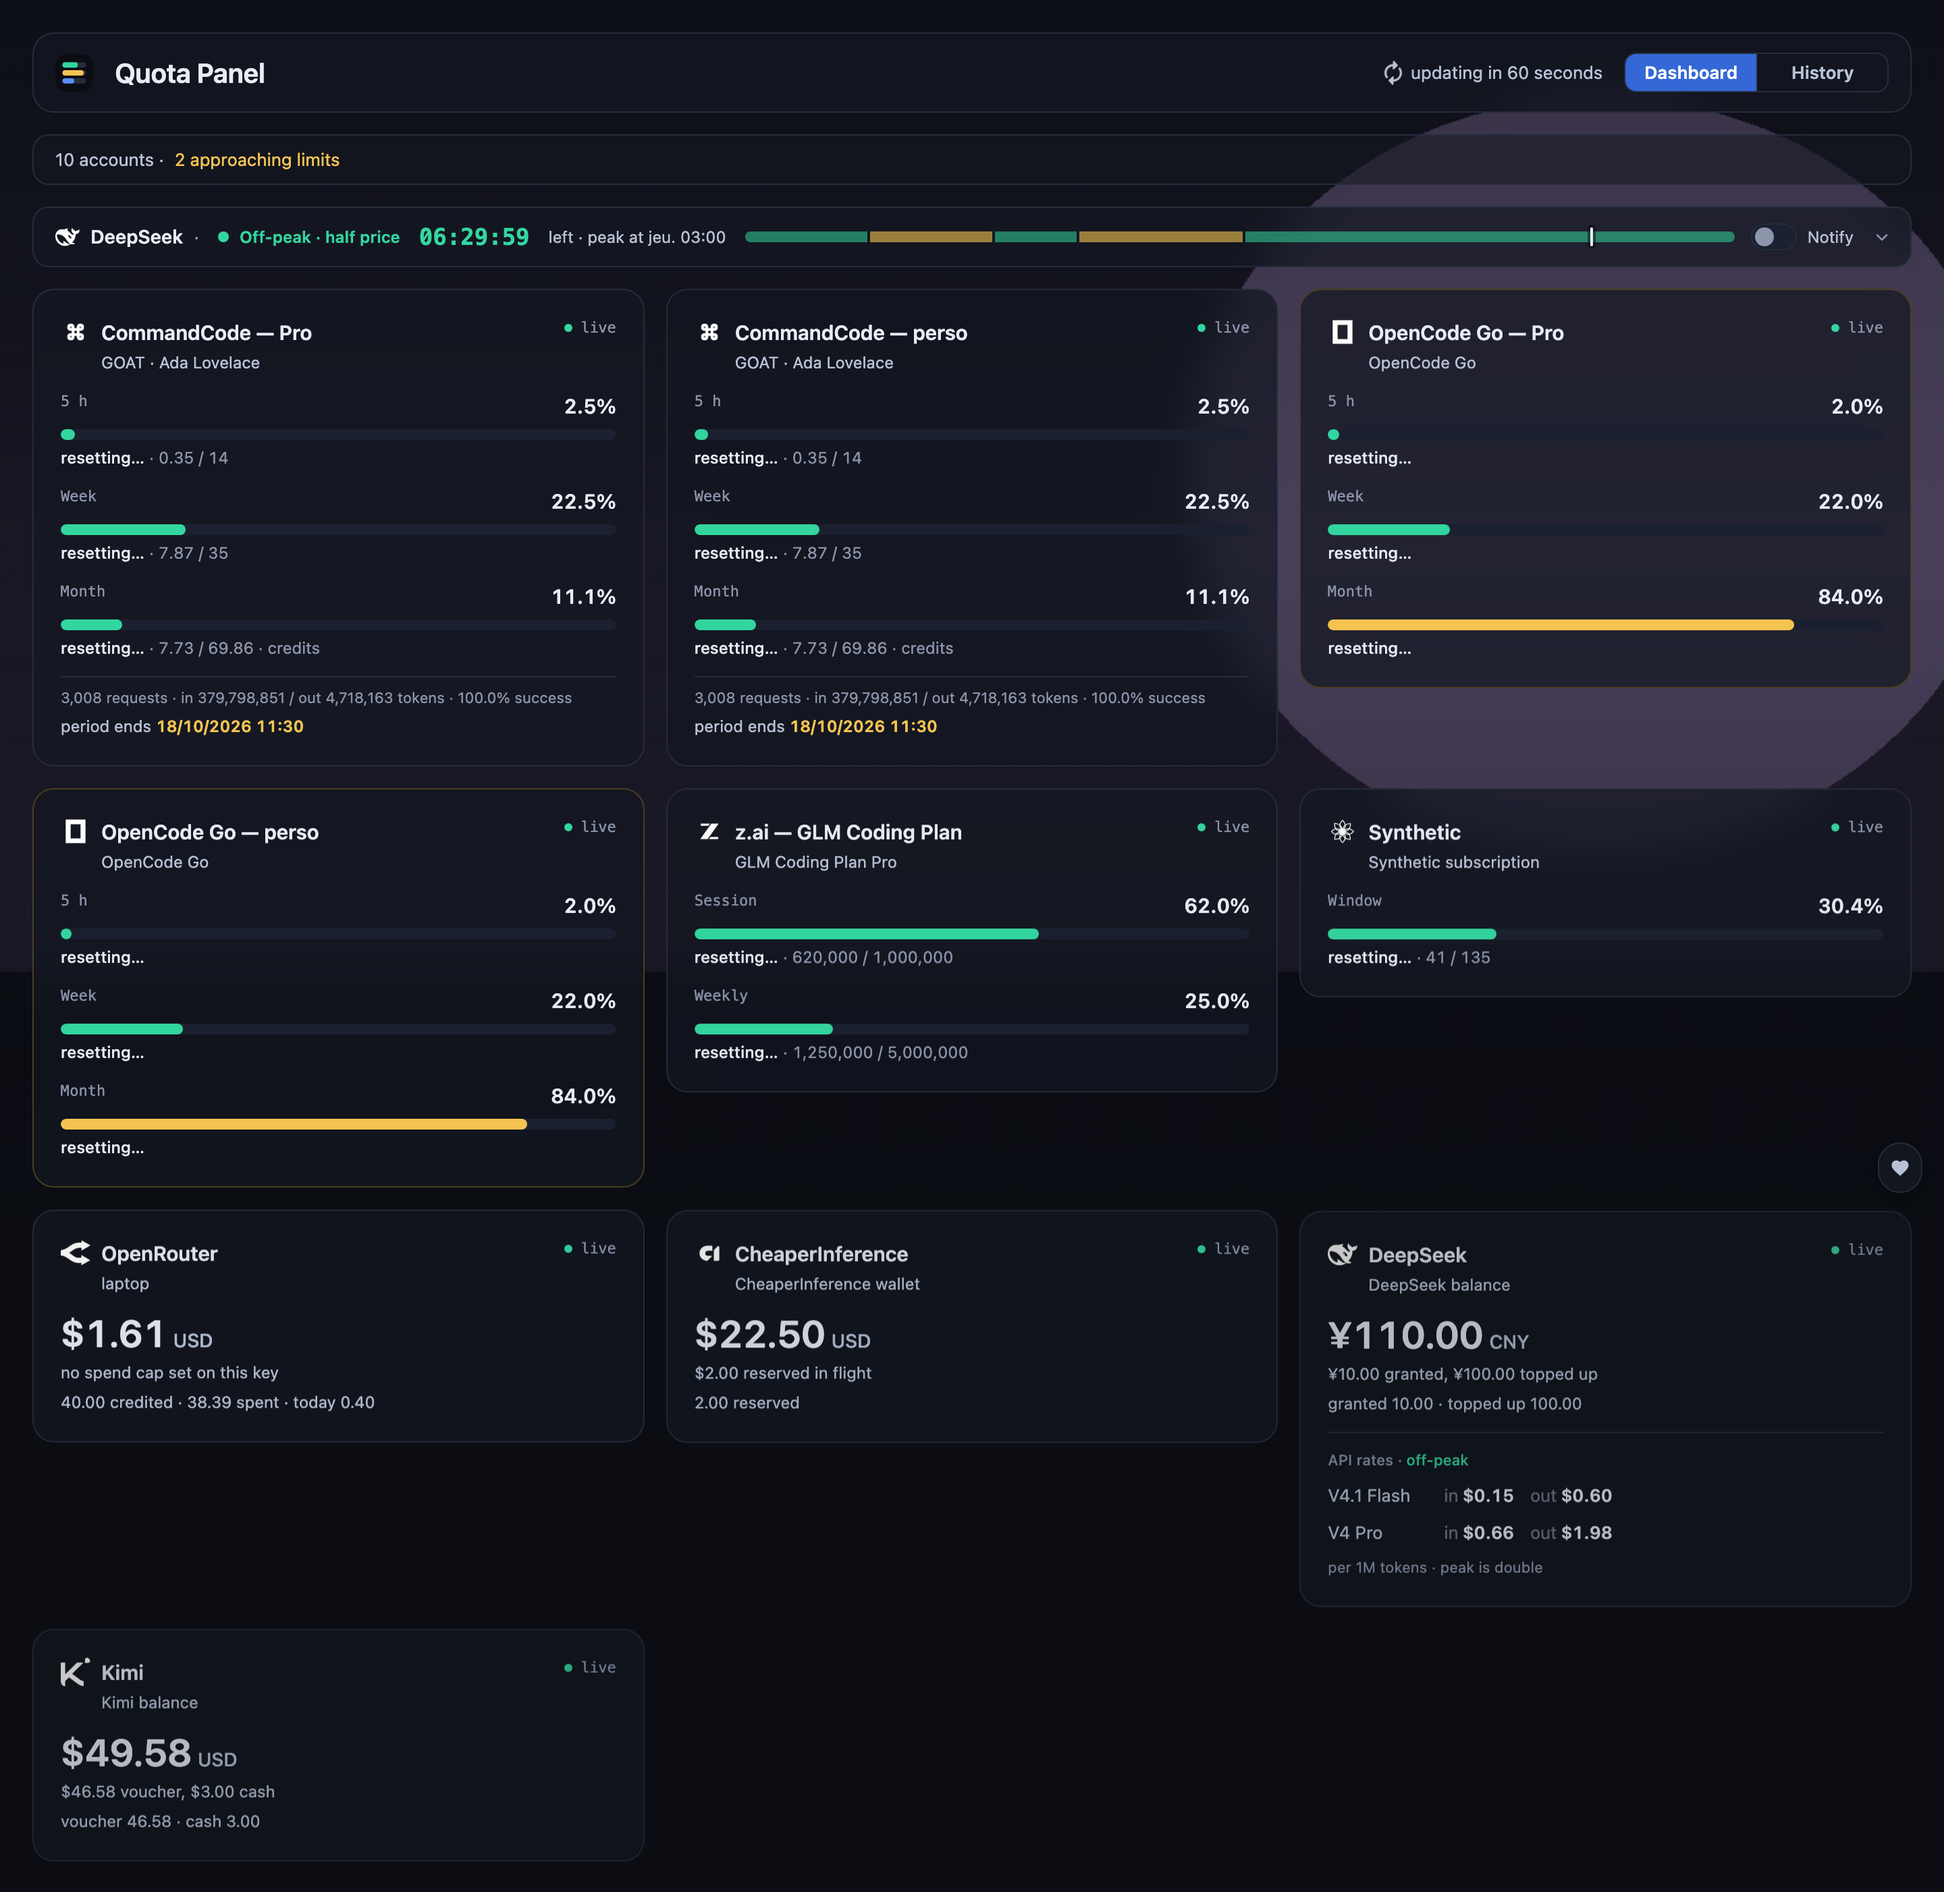
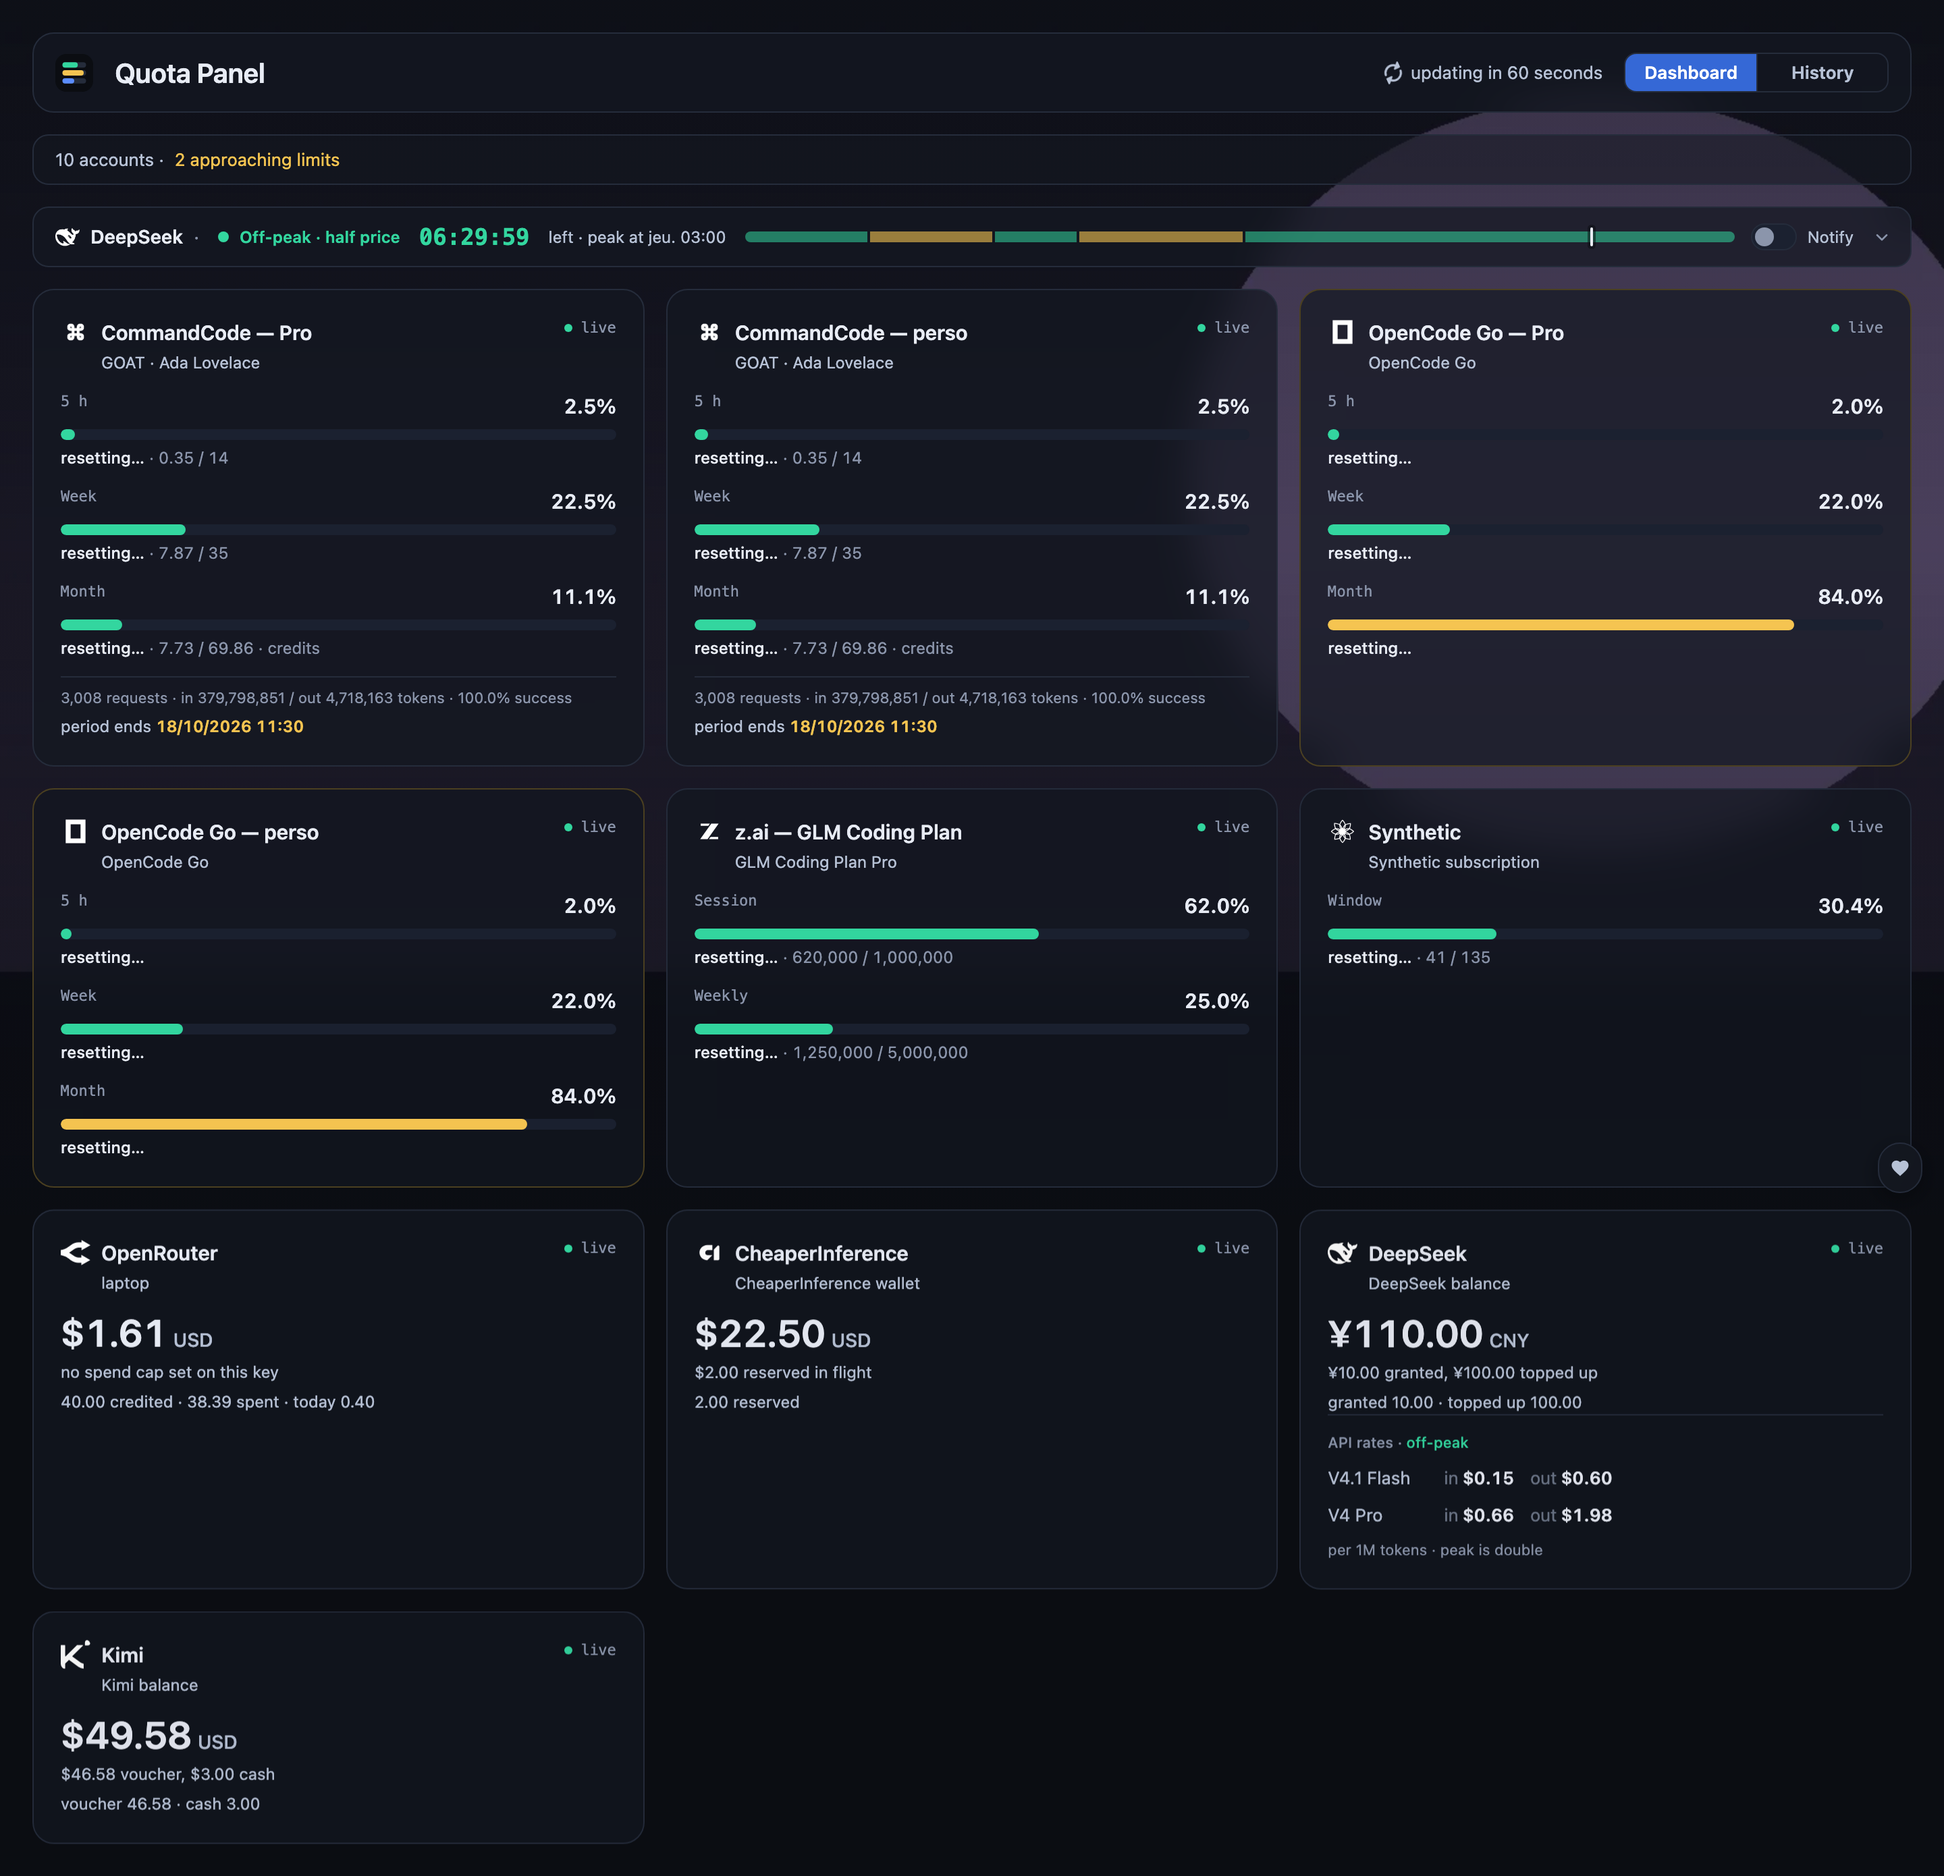
ui: equal-height cards with the foot pinned to the bottom edge
A short card beside a tall one ended mid-row, which read as a broken column.
Cards now share the row's full height, and the part that used to be a hollow
end — the request totals and the period's end date — is anchored to the
bottom, the way a ledger's totals sit under its last line. A DeepSeek card's
rate table is pinned the same way.

diff --git a/static/index.html b/static/index.html
@@ -70,7 +70,7 @@
   .ic{display:inline-block;width:1em;height:1em;vertical-align:-.125em;margin-right:.5em}
   .ic svg{display:block;width:100%;height:100%;fill:currentColor}
   .card{background:rgba(var(--card),var(--card-alpha));border:1px solid var(--line);border-radius:16px;
-       padding:20px;
+       padding:20px;display:flex;flex-direction:column;
        backdrop-filter:blur(var(--card-blur));-webkit-backdrop-filter:blur(var(--card-blur))}
   /* Which card needs a human? Every card used to carry identical weight, so finding the one at
      96% meant reading eight numbers. The tint is the information the bars already hold, hoisted
@@ -80,9 +80,11 @@
   .card.broken{border-color:#5c2020;box-shadow:inset 3px 0 0 #8a3a32}
   /* Three columns on a wide monitor, two on a laptop, one on a phone. Explicit breakpoints rather
      than auto-fill, so a 1440px viewport does not quietly become four narrow cards. */
-  /* align-items:start, not the default stretch: a short card beside a tall one used to grow an
-     empty bottom half so the row's edges lined up, which read as a card still loading. */
-  .grid{display:grid;gap:16px;grid-template-columns:1fr;align-items:start}
+  /* Flat, even rows: every card in a row shares its top and bottom edge. align-items:start was
+     tried and reverted — it left a short card ending mid-row, which reads as a broken column.
+     The slack that equal heights create goes to one place: the card's foot, pinned to the
+     bottom edge (see .card-foot), the way a ledger's totals sit under the last line. */
+  .grid{display:grid;gap:16px;grid-template-columns:1fr}
   @media (min-width:700px){ .grid{grid-template-columns:1fr 1fr} }
   @media (min-width:1100px){ .grid{grid-template-columns:1fr 1fr 1fr} }
   .strip{display:flex;align-items:center;gap:8px;flex-wrap:wrap;font-size:13px;color:var(--muted);
@@ -172,6 +174,12 @@
        border:1px solid #4a2020;border-radius:10px;padding:8px 12px}
   /* 10.5px was the smallest text here and the first casualty of a bright artwork. */
   .totals{margin-top:12px;font-size:11px;color:var(--dim);border-top:1px solid var(--line);padding-top:8px;line-height:1.35}
+  /* The card's foot — request totals and the period's end date — is anchored to the bottom of
+     the card. Stretched to the row's height, a card then reads as a metric block above and a
+     footer below, instead of trailing off wherever its last number happened to end. */
+  .card-foot{margin-top:auto}
+  /* A balance card's rate table is its foot in the same sense. */
+  .dc-rates:last-child{margin-top:auto}
   .waiting{color:var(--muted);font-size:13px;padding:18px 2px}
   /* The two status halves are one group on the right, opposite the logo and the title. */
   #feed{margin-left:auto;font-variant-numeric:tabular-nums;display:inline-flex;align-items:center}
@@ -841,8 +849,12 @@ function cardHtml(acc, stale){
     html += dcRatesHtml();
   }
   const t = acc.totals || {};
+  // The foot — what the card spent, and when its period ends — is one block so it can be pinned
+  // to the card's bottom edge (see .card-foot): a stretched card then puts its slack above the
+  // foot, where it reads as spacing, rather than under it as a hollow end.
+  let foot = '';
   if(t.requests || t.tokens_in){
-    html += `<div class="totals">${fmtCount(t.requests || 0)} requests · in ${fmtCount(t.tokens_in || 0)} / out ${fmtCount(t.tokens_out || 0)} tokens${t.success_rate !== undefined && t.success_rate !== null ? ' · ' + fmtPct(t.success_rate) + ' success' : ''}</div>`;
+    foot += `<div class="totals">${fmtCount(t.requests || 0)} requests · in ${fmtCount(t.tokens_in || 0)} / out ${fmtCount(t.tokens_out || 0)} tokens${t.success_rate !== undefined && t.success_rate !== null ? ' · ' + fmtPct(t.success_rate) + ' success' : ''}</div>`;
   }
   if(acc.period_end){
     // The server passes a provider-supplied string through when it merely looks ISO-ish, so an
@@ -851,10 +863,11 @@ function cardHtml(acc, stale){
     // The day the plan's month ends is what a reader plans around, so the date carries the same
     // emphasis as a countdown, and turns amber inside its last three days.
     const soon = !isNaN(end) && (end - serverNow()) < SOON_MS * 3;
-    html += `<div class="reset${soon ? ' soon' : ''}">period ends ${isNaN(end)
+    foot += `<div class="reset${soon ? ' soon' : ''}">period ends ${isNaN(end)
       ? esc(acc.period_end) : `<span class="when">${esc(new Date(end).toLocaleString(undefined,
           {year:'numeric',month:'2-digit',day:'2-digit',hour:'2-digit',minute:'2-digit'}))}</span>`}</div>`;
   }
+  if(foot) html += `<div class="card-foot">${foot}</div>`;
   return html;
 }
 
